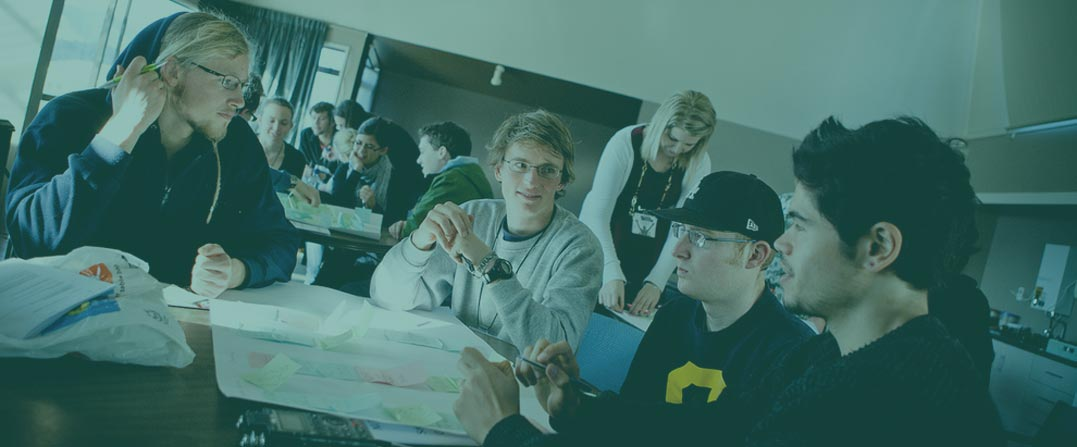
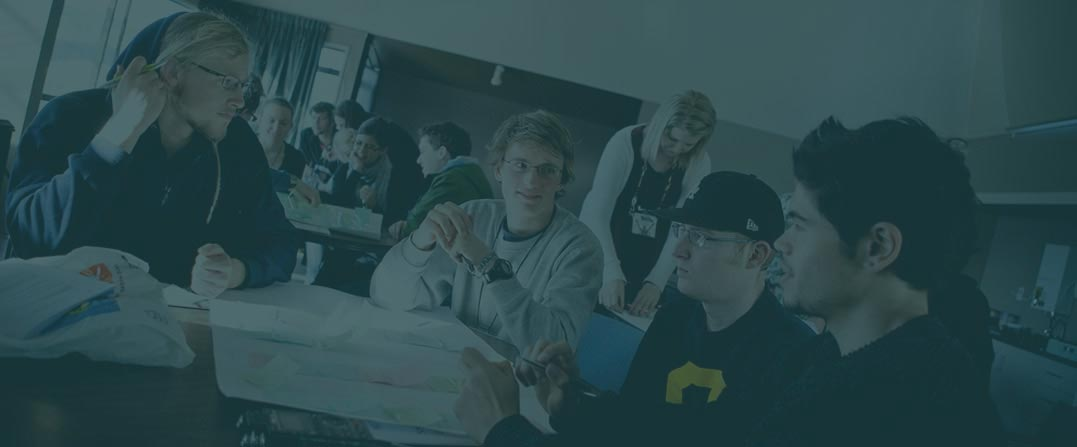
changed bright green down to nice dark blue

diff --git a/app/assets/stylesheets/application.css.scss b/app/assets/stylesheets/application.css.scss
@@ -18,6 +18,7 @@ $primary-light-color: #85D2C4;
 @import 'forms';
 @import 'tables';
 @import 'badges';
+@import 'labels';
 @import 'accounts';
 
 body {
@@ -46,14 +47,14 @@ a{
   top: 0;
   bottom: 0;
   width: 200px;
-  background: $primary-color;
+  background: #1C2B36;
   .rank {
     position: absolute;
     bottom: 0;
     right: 0;
     left: 0;
     padding: 20px 20px 0;
-    background-color: $primary-light-color;
+    background-color: #1C2B36;
     color: #fff;
     img {
       width: 100%;
@@ -69,8 +70,7 @@ a{
   }
   .brand {
     color: #fff;
-    background: $primary-light-color;
-    border-bottom: 1px solid #cefaf2;
+    background: #0F1922;
     padding: 20px;
     font-size: 15px;
     text-transform: uppercase;
@@ -82,13 +82,12 @@ a{
     }
   }
   ul.nav {
-    padding-top: 10px;
     li {
       a {
         @include transition-property(color);
         @include transition-duration(0.3s);
-        color: #cefaf2;
-        font-weight: bold;
+        color: #A9B6BD;
+        font-weight: lighter;
         .fa {
           margin-right: 10px;
         }
@@ -103,12 +102,12 @@ a{
       }
     }
     ul.sub {
-      margin-left: 20px;
-      margin-top: 0;
-      padding-top: 0;
-      border-left: 3px solid #cefaf2;
+      margin: 0;
+      padding: 10px 0;
+      background-color: #0F1922;
+      border-left: 2px #41D8D9 solid;
       li a {
-        font-weight: normal;
+        font-weight: lighter;
         padding: 5px 15px;
       }
     }
@@ -319,7 +318,7 @@ nav.navbar-fixed-top {
 #sign_in {
   font-size: 20px;
   .header {
-    background-color: $primary-color;
+    background-color: #1C2B36;
     min-height: 125px;
     padding-top: 30px;
     h3 {
@@ -345,11 +344,11 @@ nav.navbar-fixed-top {
         width: 20px;
       }
       color: #fff;
-      background-color: $primary-light-color;
-      border-color: $primary-light-color;
+      background-color: #0F1922;
+      border-color: #0F1922;
       &:hover {
-        background-color: $primary-light-color;
-        border-color: $primary-light-color;
+        background-color: #0F1922;
+        border-color: #0F1922;
       }
     }
   }
@@ -361,7 +360,13 @@ nav.navbar-fixed-top {
     text-align: center;
     color: #fff;
     a.btn-primary {
+      background-color: #0F1922;
+      border-color: #0F1922;
       min-width: 150px;
+      &:hover {
+        background-color: #1C2B36;
+        border-color: #1C2B36;
+      }
     }
   }
 }
@@ -645,7 +650,7 @@ form.gma_staff_report {
   }
   .navbar-alternative {
     display: block;
-    background-color: $primary-color;
+    background-color: #1C2B36;
     position: fixed;
     left: 0;
     top: 80px;
@@ -664,39 +669,43 @@ form.gma_staff_report {
     }
     .navbar-toggle {
       &:focus, &:hover {
-        background-color: $primary-light-color;
+        background-color: #0F1922;
       }
     }
     .navbar-collapse {
       border:0;
       .nav.navbar-nav {
         a:link, a:visited {
-          color: #cefaf2;
+          @include transition-property(color);
+          @include transition-property(background-color);
+          @include transition-duration(0.3s);
+          color: #A9B6BD;
+          font-weight: normal;
           &:hover {
-            background-color: $primary-light-color;
+            background-color: #0F1922;
             color: #fff;
           }
         }
         > .open {
           > a {
-            background-color: #6fc4b4;
+            background-color: #0F1922;
           }
           > .dropdown-menu {
-            background-color: $primary-color;
+            background-color: #1C2B36;
             border: 0;
             > .divider {
-              background-color: $primary-light-color;
+              background-color: #0F1922;
             }
             > .active > a {
               color: #fff;
-              background-color: $primary-light-color;
+              background-color: #0F1922;
             }
           }
         }
         > .active {
           > a, a:hover {
             color: #fff;
-            background-color: $primary-light-color;
+            background-color: #0F1922;
           }
         }
       }
@@ -706,9 +715,9 @@ form.gma_staff_report {
       padding-right: 30px;
     }
     .navbar-nav > .active > a, .navbar-nav > .open > a {
-      background-color: #4a5363;
+      background-color: #0F1922;
       &:hover {
-        background-color: #4a5363;
+        background-color: #0F1922;
       }
     }
     .navbar-nav > li > a {

diff --git a/app/assets/stylesheets/labels.css.scss b/app/assets/stylesheets/labels.css.scss
@@ -1,0 +1,15 @@
+.contact_row {
+  .label {
+    margin-top: 3px;
+    font-weight: normal;
+    display: block;
+    float: left;
+    text-transform: lowercase;
+  }
+}
+.label-base {
+  background-color: $primary-color;
+}
+.label-appointment {
+  background-color: #0cf;
+}
